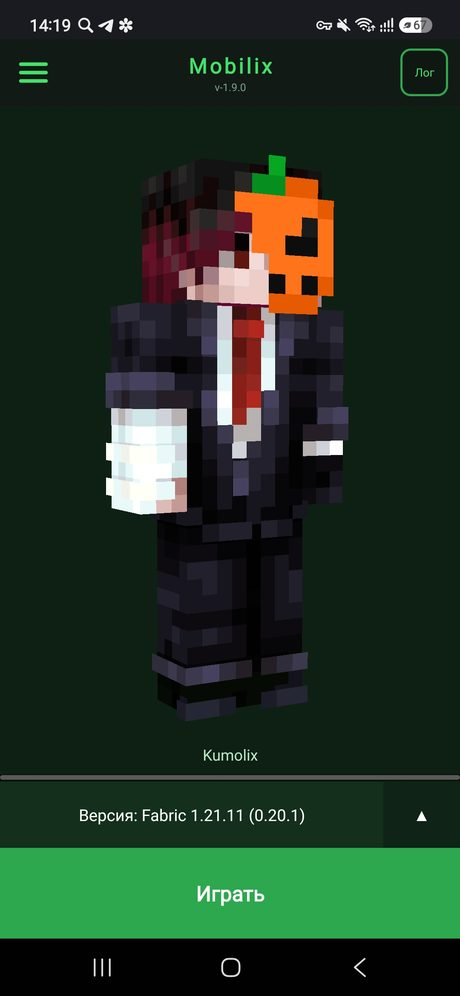
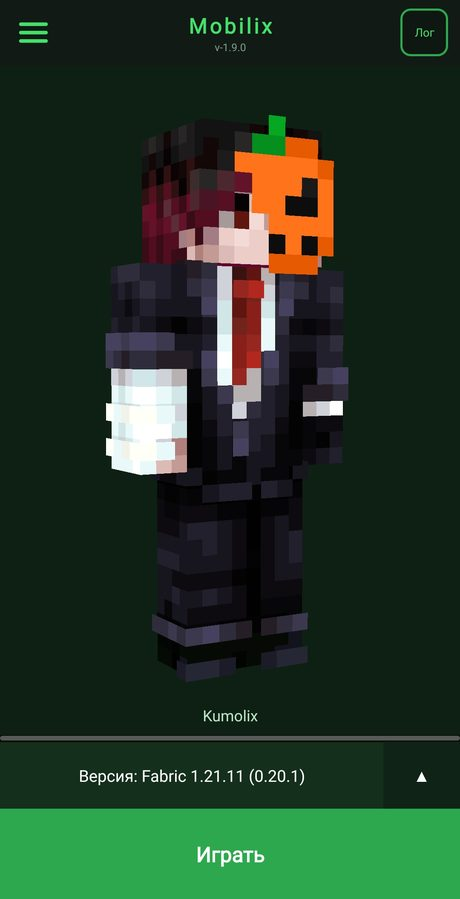
Site: crop status and navigation bars from screenshots
Claude-Session: https://claude.ai/code/session_01Y9bEfCUsdVvsvnemu9CpgR

diff --git a/docs/index.html b/docs/index.html
@@ -64,10 +64,10 @@
   <div class="wrap">
     <h2 class="t" data-i18n="sh_t">Как выглядит</h2>
     <div class="row">
-      <figure><div class="shot px"><img src="shots/1.jpg" width="460" height="997" alt="" loading="lazy"></div><figcaption data-i18n="sh1">Главный экран</figcaption></figure>
-      <figure><div class="shot px"><img src="shots/2.jpg" width="460" height="997" alt="" loading="lazy"></div><figcaption data-i18n="sh2">Каталог модов</figcaption></figure>
-      <figure><div class="shot px"><img src="shots/3.jpg" width="460" height="997" alt="" loading="lazy"></div><figcaption data-i18n="sh3">Быстрые настройки графики</figcaption></figure>
-      <figure><div class="shot px"><img src="shots/4.jpg" width="460" height="997" alt="" loading="lazy"></div><figcaption data-i18n="sh4">Выбор версии игры</figcaption></figure>
+      <figure><div class="shot px"><img src="shots/1.jpg" width="460" height="899" alt="" loading="lazy"></div><figcaption data-i18n="sh1">Главный экран</figcaption></figure>
+      <figure><div class="shot px"><img src="shots/2.jpg" width="460" height="899" alt="" loading="lazy"></div><figcaption data-i18n="sh2">Каталог модов</figcaption></figure>
+      <figure><div class="shot px"><img src="shots/3.jpg" width="460" height="899" alt="" loading="lazy"></div><figcaption data-i18n="sh3">Быстрые настройки графики</figcaption></figure>
+      <figure><div class="shot px"><img src="shots/4.jpg" width="460" height="899" alt="" loading="lazy"></div><figcaption data-i18n="sh4">Выбор версии игры</figcaption></figure>
     </div>
   </div>
 </section>
